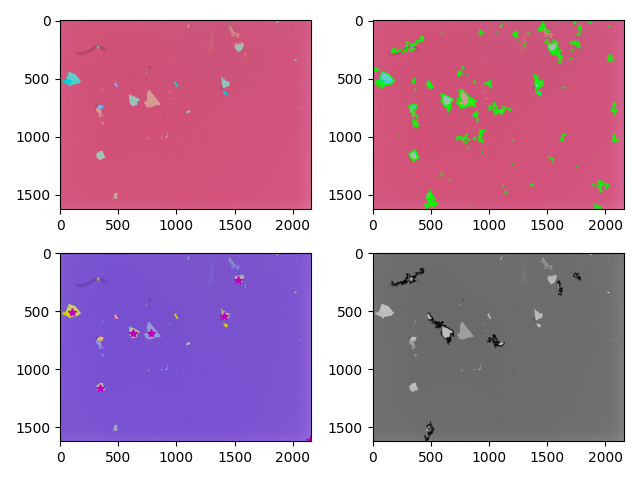
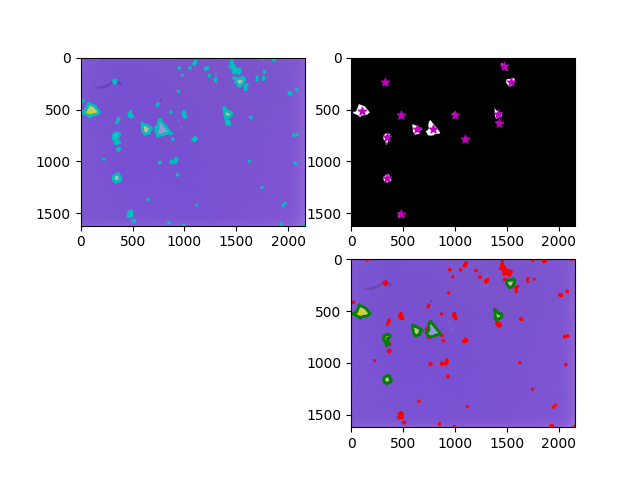
Added files - Added matlab code for controlling microscope movement

diff --git a/KDC101_init.m b/KDC101_init.m
@@ -1,0 +1,60 @@
+%% CONNECTING AND INITIALIZING DEVICES
+NET.addAssembly('C:\Program Files\Thorlabs\Kinesis\Thorlabs.MotionControl.DeviceManagerCLI.dll');
+NET.addAssembly('C:\Program Files\Thorlabs\Kinesis\Thorlabs.MotionControl.GenericMotorCLI.dll');
+NET.addAssembly('C:\Program Files\Thorlabs\Kinesis\Thorlabs.MotionControl.KCube.DCServoCLI.dll');
+%Initialize Device List
+import Thorlabs.MotionControl.DeviceManagerCLI.*
+import Thorlabs.MotionControl.GenericMotorCLI.*
+import Thorlabs.MotionControl.KCube.DCServoCLI.*
+%Initialize Device List
+DeviceManagerCLI.BuildDeviceList()
+DeviceManagerCLI.GetDeviceListSize()
+SLnoList= Thorlabs.MotionControl.DeviceManagerCLI.DeviceManagerCLI.GetDeviceList()
+serialNumbers=cell(ToArray(SLnoList))
+%Should change the serial number below to the one being used.
+serial_numX=serialNumbers{2};
+serial_numY=serialNumbers{1};
+timeout_val=60000;
+%Set up device and configuration
+KDC101X = KCubeDCServo.CreateKCubeDCServo(serial_numX);
+KDC101X.Connect(serial_numX);
+KDC101X.WaitForSettingsInitialized(5000);
+% configure the stage
+motorSettings = KDC101X.LoadMotorConfiguration(serial_numX);
+motorSettings.DeviceSettingsName = 'MTS50-Z8';
+% update the RealToDeviceUnit converter
+motorSettings.UpdateCurrentConfiguration();
+% push the settings down to the device
+MotorDeviceSettings = KDC101X.MotorDeviceSettings;
+KDC101X.SetSettings(MotorDeviceSettings, true, false);
+KDC101X.StartPolling(250);
+%Set up device and configuration
+KDC101Y = KCubeDCServo.CreateKCubeDCServo(serial_numY);
+KDC101Y.Connect(serial_numY);
+KDC101Y.WaitForSettingsInitialized(5000);
+% configure the stage
+motorSettings = KDC101Y.LoadMotorConfiguration(serial_numY);
+motorSettings.DeviceSettingsName = 'MTS50-Z8';
+% update the RealToDeviceUnit converter
+motorSettings.UpdateCurrentConfiguration();
+% push the settings down to the device
+MotorDeviceSettings = KDC101Y.MotorDeviceSettings;
+KDC101Y.SetSettings(MotorDeviceSettings, true, false);
+KDC101Y.StartPolling(250);
+pause(1); %wait to make sure device is enabled
+dir = Thorlabs.MotionControl.GenericMotorCLI.MotorDirection;
+%raster scan using KDC101.MoveRelative commands and taking image
+% KDC101home(KDC101X,timeout_val);
+% KDC101home(KDC101Y,timeout_val)
+%KDC101moveto(KDC101X,  4.7993,timeout_val);
+% KDC101moveto(KDC101Y, 27.350,timeout_val);
+%KDC101X.MoveRelative(dir, 1, timeout_val);
+%KDC101Y.MoveRelative(dir, 0.3, timeout_val);
+%posy = System.Decimal.ToDouble(KDC101Y.Position)
+% %pause(2);
+%     KDC101X.MoveTo(33.156690+0.063,timeout_val);
+%     KDC101Y.MoveTo(38.577700+0.091,timeout_val);
+%   KDC101X.MoveRelative(dir, 1.00 , timeout_val);
+%   KDC101Y.MoveRelative(dir, 0.260, timeout_val);   
+%pause(3);
+

diff --git a/flakes_v3.py b/flakes_v3.py
@@ -1,12 +1,3 @@
-# -*- coding: utf-8 -*-
-"""flakes_kevin.ipynb
-
-Automatically generated by Colaboratory.
-
-Original file is located at
-    https://colab.research.google.com/drive/1c7wYhCjsen4B29aLKROGS_Y_jxPT_zd_
-"""
-
 ### NEW CODE, Nov.10, 2023
 import cv2
 import numpy as np
@@ -28,7 +19,7 @@ contours, _ = cv2.findContours(BW, cv2.RETR_EXTERNAL, cv2.CHAIN_APPROX_SIMPLE)
 # Plot original image with contours
 plt.subplot(2, 2, 1)
 plt.imshow(cv2.cvtColor(originalflakes, cv2.COLOR_BGR2RGB))
-plt.title('Outlining all flakes')
+# plt.title('Outlining all flakes')
 for contour in contours:
     plt.plot(contour[:, 0, 0], contour[:, 0, 1], 'c', linewidth=2)
 
@@ -45,7 +36,7 @@ centroids = [(int(M['m10']/M['m00']), int(M['m01']/M['m00'])) for M in centroids
 # Plot centroids
 plt.subplot(2, 2, 2)
 plt.imshow(BW2, cmap='gray')
-plt.title('Centroids of all flake pieces')
+# plt.title('Centroids of all flake pieces')
 plt.scatter(*zip(*centroids), color='m', marker='*')
 
 # Plot colored outlines based on area thresholds
@@ -59,7 +50,7 @@ for i, area in enumerate(areas):
 
 plt.subplot(2, 2, 4)
 plt.imshow(cv2.cvtColor(originalflakes, cv2.COLOR_BGR2RGB))
-plt.title('Good and bad flakes based on areas')
+# plt.title('Good and bad flakes based on areas')
 for contour in cv2.findContours(BW3, cv2.RETR_EXTERNAL, cv2.CHAIN_APPROX_SIMPLE)[0]:
     plt.plot(contour[:, 0, 0], contour[:, 0, 1], 'r', linewidth=2)
 for contour in cv2.findContours(BW4, cv2.RETR_EXTERNAL, cv2.CHAIN_APPROX_SIMPLE)[0]:

diff --git a/snapshot.py b/snapshot.py
@@ -1,0 +1,43 @@
+'''
+Take snapshot through microscope's Olympus LC35 camera as the microscope moves through the plate.
+
+Use TWAIN library for cameras.
+LC35 should be TWAIN-compliant, as it can be controlled using the DP2-TWAIN software.
+Note that TWAIN module can only be downloaded on Windoes devices.
+
+The current Matlab code should take care of the microscope movement.
+'''
+
+import twain
+
+def acquire_image():
+    # Set up the TWAIN source manager
+    sm = twain.SourceManager(0)
+    try:
+        # Open the default source (scanner/camera)
+        source = sm.OpenSource()
+        
+        # Initiate the scanning process
+        source.RequestAcquire(0, 0)
+        
+        # Get the info about the pending transfers
+        info = source.GetImageInfo()
+        
+        # Actually transfer the image
+        image = source.XferImageNatively()
+        if image:
+            (handle, count) = image
+            # Handle the image. This could involve converting it to a different format
+            # and saving or processing it as required.
+
+            # Close the image handle
+            twain.DIBToBMFile(handle, 'output.bmp')
+            twain.GlobalHandleFree(handle)
+        else:
+            print('No image captured.')
+    finally:
+        # Clean up the source and source manager
+        source.Close()
+        sm.Destroy()
+    
+acquire_image()

diff --git a/microscope_test.py b/microscope_test.py
@@ -1,0 +1,10 @@
+"""
+A testing file for ThorLabs' aptdevice_motor module for controlling microscope.
+
+Documentation URL: https://thorlabs-apt-device.readthedocs.io/en/latest/api/thorlabs_apt_device.devices.aptdevice_motor.html#thorlabs_apt_device.devices.aptdevice_motor.APTDevice_Motor.move_absolute
+
+Todo:
+1. Confirm that available microscope is an APT device
+2. Test ThorLabs' commands for controlling the microscope, specifically horizontal and vertical movements
+3. Figure out a way to save screenshots of microscope images.
+"""

diff --git a/KDC101moveto.m b/KDC101moveto.m
@@ -1,0 +1,9 @@
+function KDC101moveto(KDC101,x,timeout_val)
+KDC101.MoveTo(x, timeout_val);
+pause(3);
+%Check Position
+pos = System.Decimal.ToDouble(KDC101.Position);
+%fprintf('The motor position is %d.\n',pos);
+str1 = ['Motor @ ',num2str(pos)];
+disp(str1);
+

diff --git a/KDC101home.m b/KDC101home.m
@@ -1,0 +1,8 @@
+function KDC101home(KDC101,timeout_val)
+KDC101.Home(timeout_val);
+fprintf('Motor homed.\n');
+pos = System.Decimal.ToDouble(KDC101.Position);
+%fprintf('The motor position is %d.\n',pos);
+str1 = ['Motor @ ',num2str(pos)];
+disp(str1);
+end

diff --git a/KDC101pos.m b/KDC101pos.m
@@ -1,0 +1,6 @@
+function KDC101pos(KDC101)
+pos = System.Decimal.ToDouble(KDC101.Position);
+str1 = ['Motor @ ',num2str(pos)];
+disp(str1);
+end
+

diff --git a/KDC101disconnect.m b/KDC101disconnect.m
@@ -1,0 +1,5 @@
+function KDC101disconnect(KDC101)
+KDC101.StopPolling()
+KDC101.Disconnect()
+end
+
